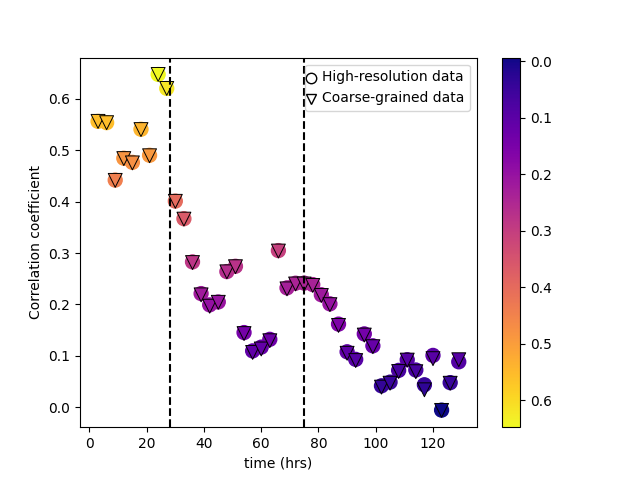
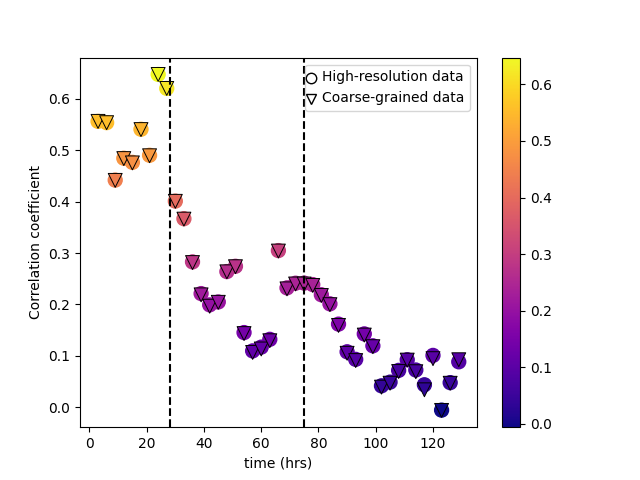
color bar invert

Changed region(s): [[0.7812, 0.125, 0.875, 0.5], [0.7812, 0.5312, 0.875, 0.9062]]

diff --git a/Scripts_HAR/Wind_Precip/Corr_Scatter.py b/Scripts_HAR/Wind_Precip/Corr_Scatter.py
@@ -64,7 +64,7 @@ def create_plot(coeff, time, coeff_coarse, time_coarse):
     #Coarse Plot
     points = ax.scatter(time_coarse, coeff_coarse, c=coeff_coarse, cmap = 'plasma',edgecolors = 'k',linewidth = .7, marker = 'v', s =100)
     cb = cbar.colorbar(points)
-    cb.ax.invert_yaxis()
+    #cb.ax.invert_yaxis()
     
     #Legend settings
     Coarse_leg = mlines.Line2D([], [], color='black', marker='v',
